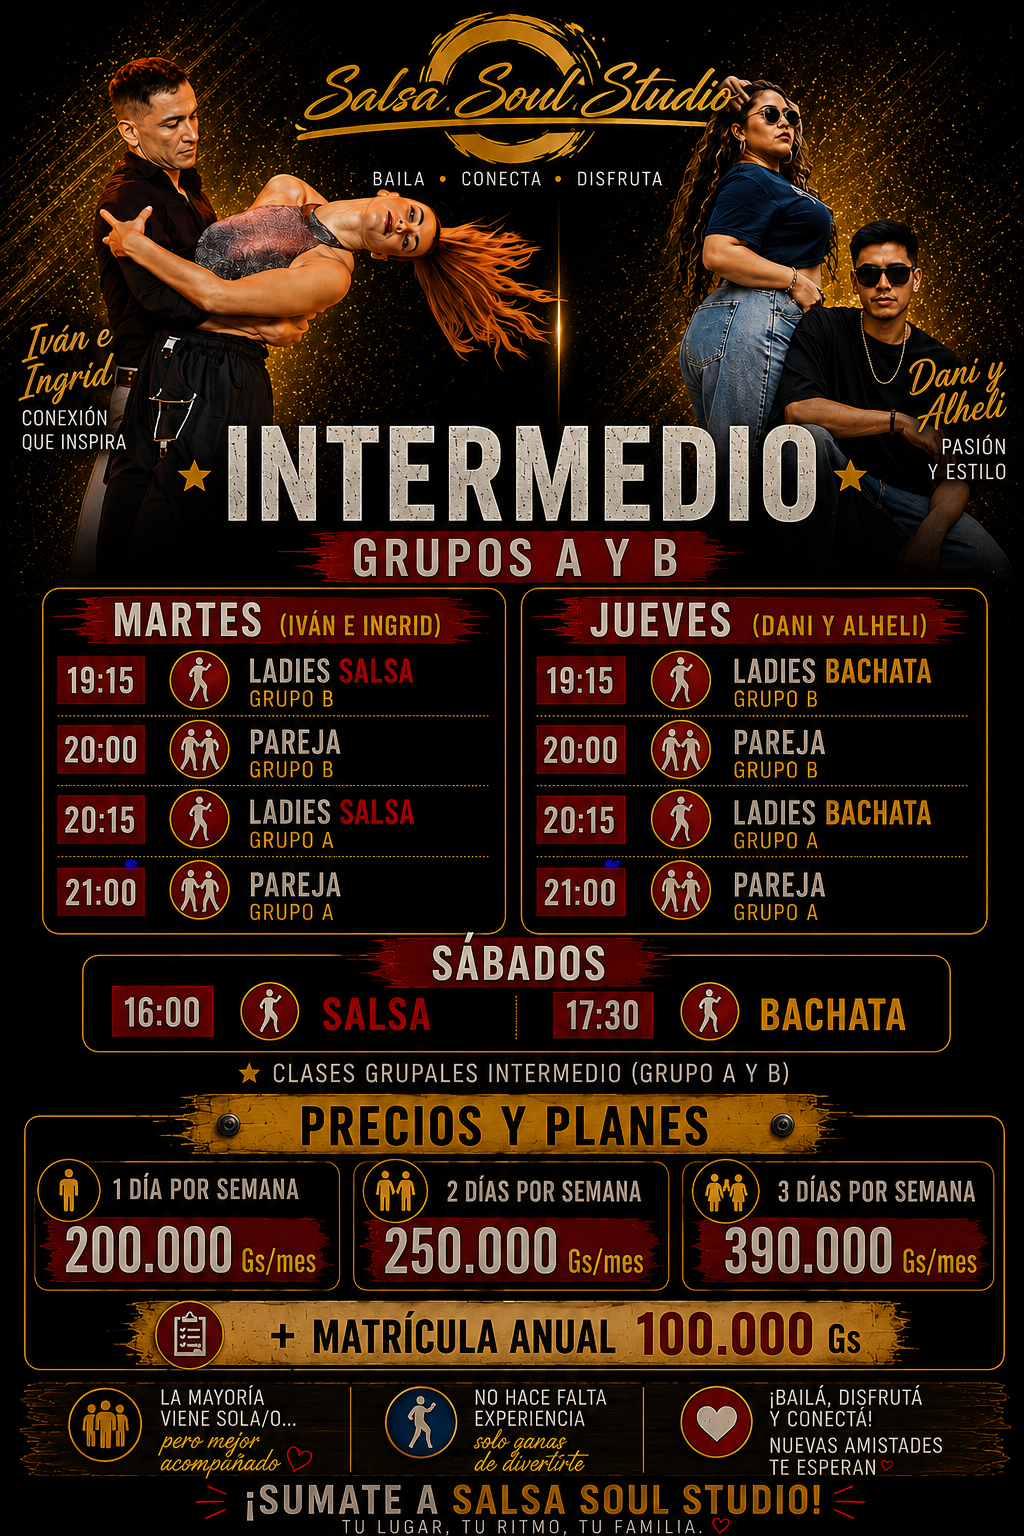
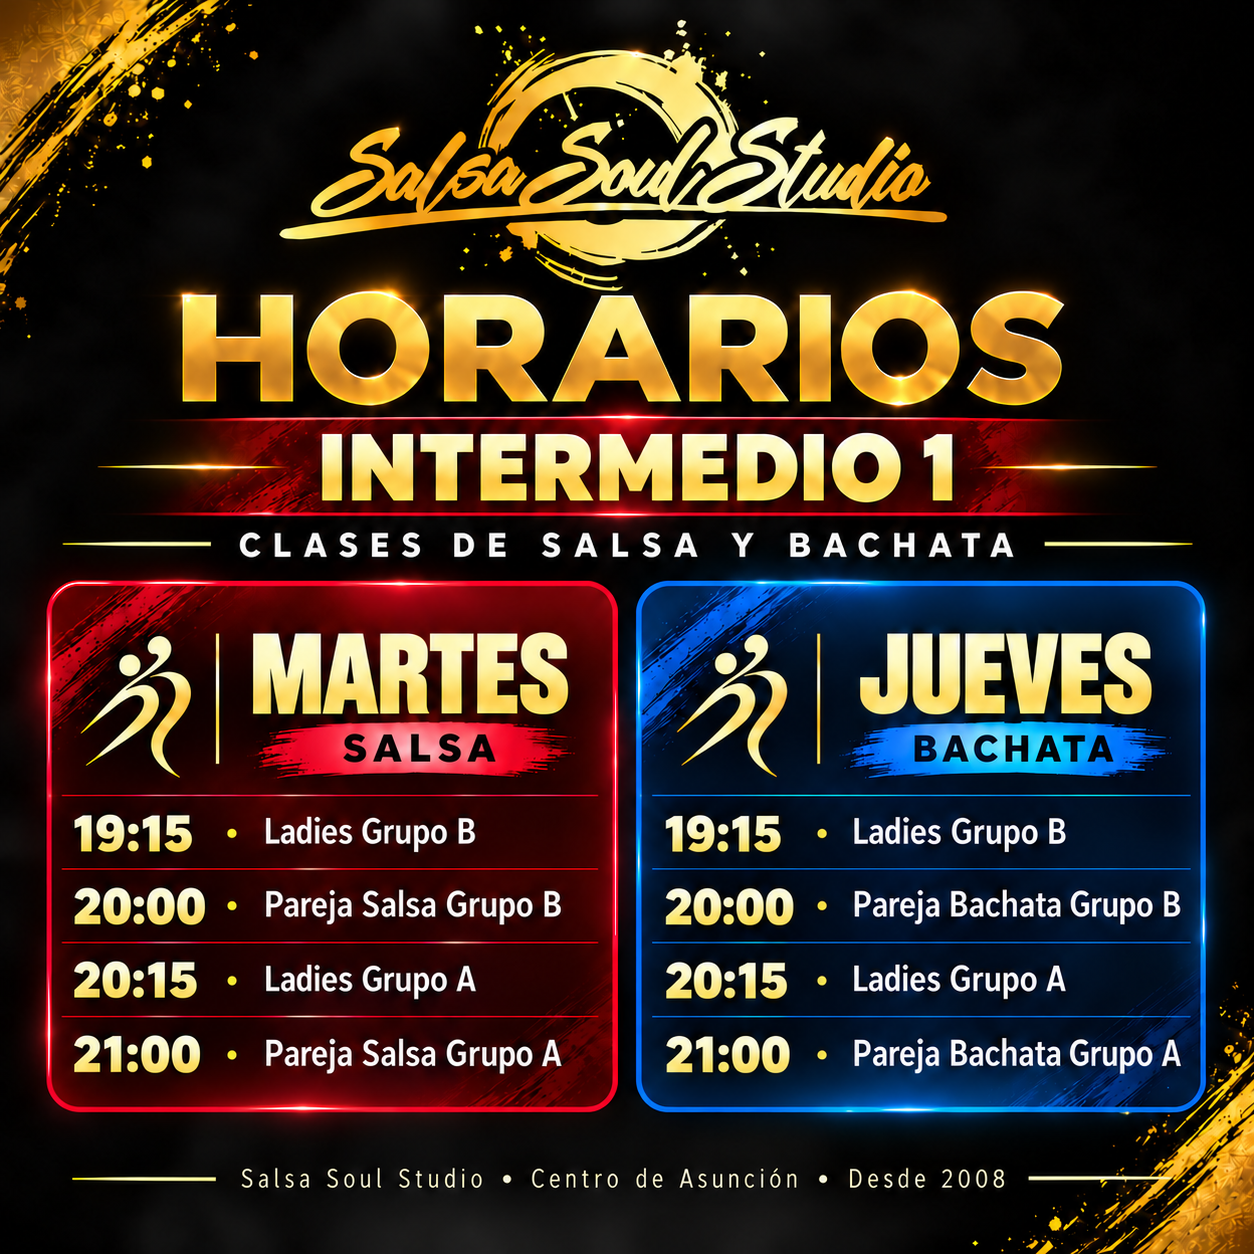
fix(horarios): afiche de Intermedio 1 sin el sábado
El afiche anterior de Intermedio mostraba el sábado 16:00/17:30, que ya
no está en la grilla. Va el de Iván del 11/10 (Grupo B 19:15/20:00,
Grupo A 20:15/21:00). Lo usan la home (?v=2) y la TV.

diff --git a/index.html b/index.html
@@ -280,7 +280,7 @@
           <img src="afiche-horarios-niveles.png" alt="Horarios Principiante 1 y 2, Básico 2 y Básico 3" loading="lazy">
         </div>
         <div class="afiche-card" onclick="openLightbox(this)">
-          <img src="afiche-horarios-intermedio.png" alt="Horarios y precios Intermedio" loading="lazy">
+          <img src="afiche-horarios-intermedio.png?v=2" alt="Horarios Intermedio 1 — martes salsa y jueves bachata, grupos A y B" loading="lazy">
         </div>
       </div>
     </div>
